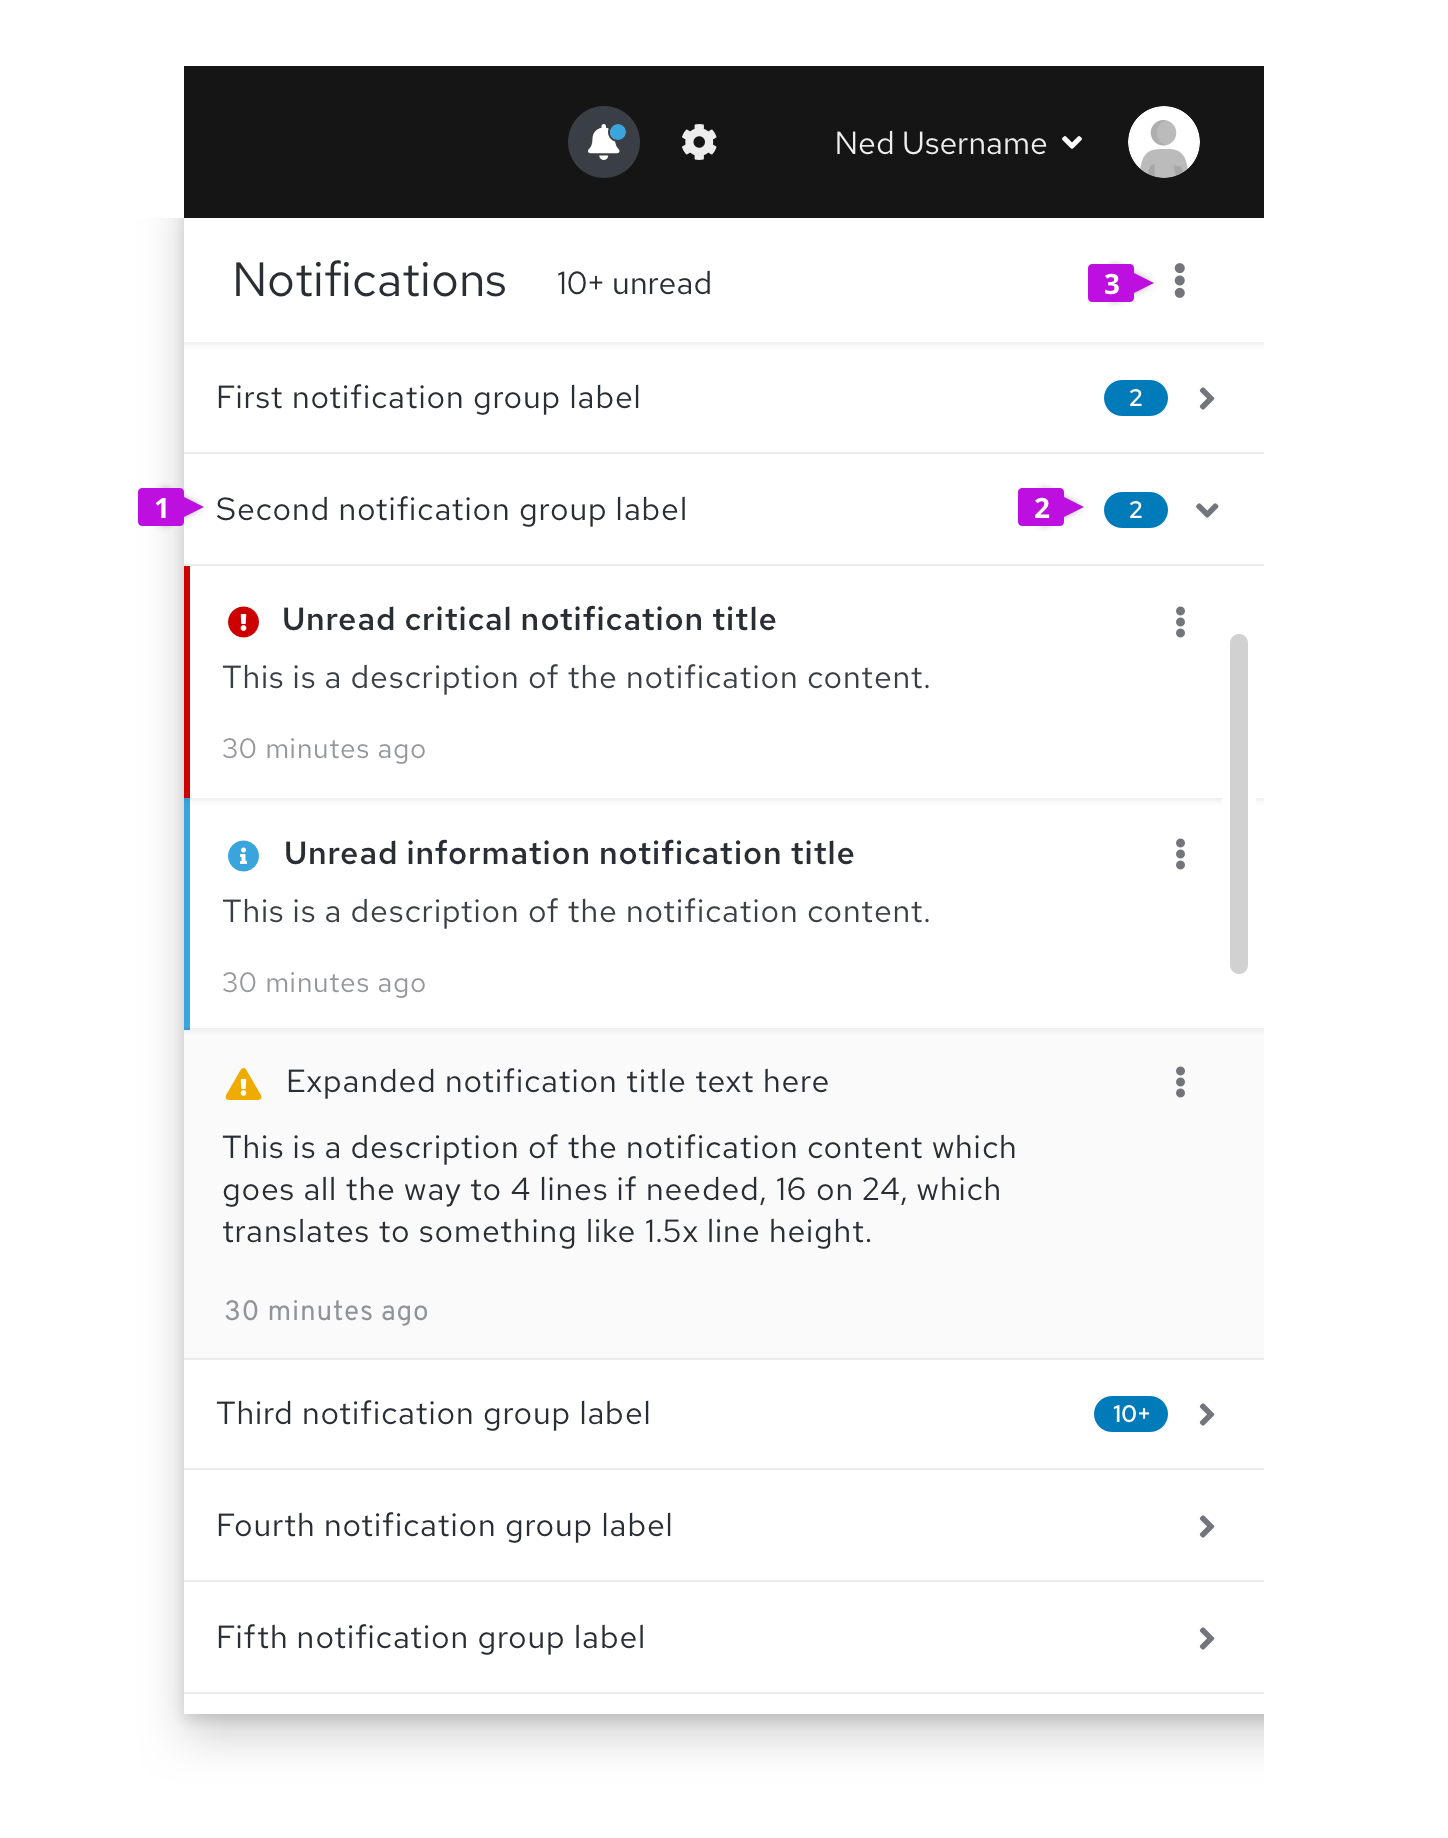
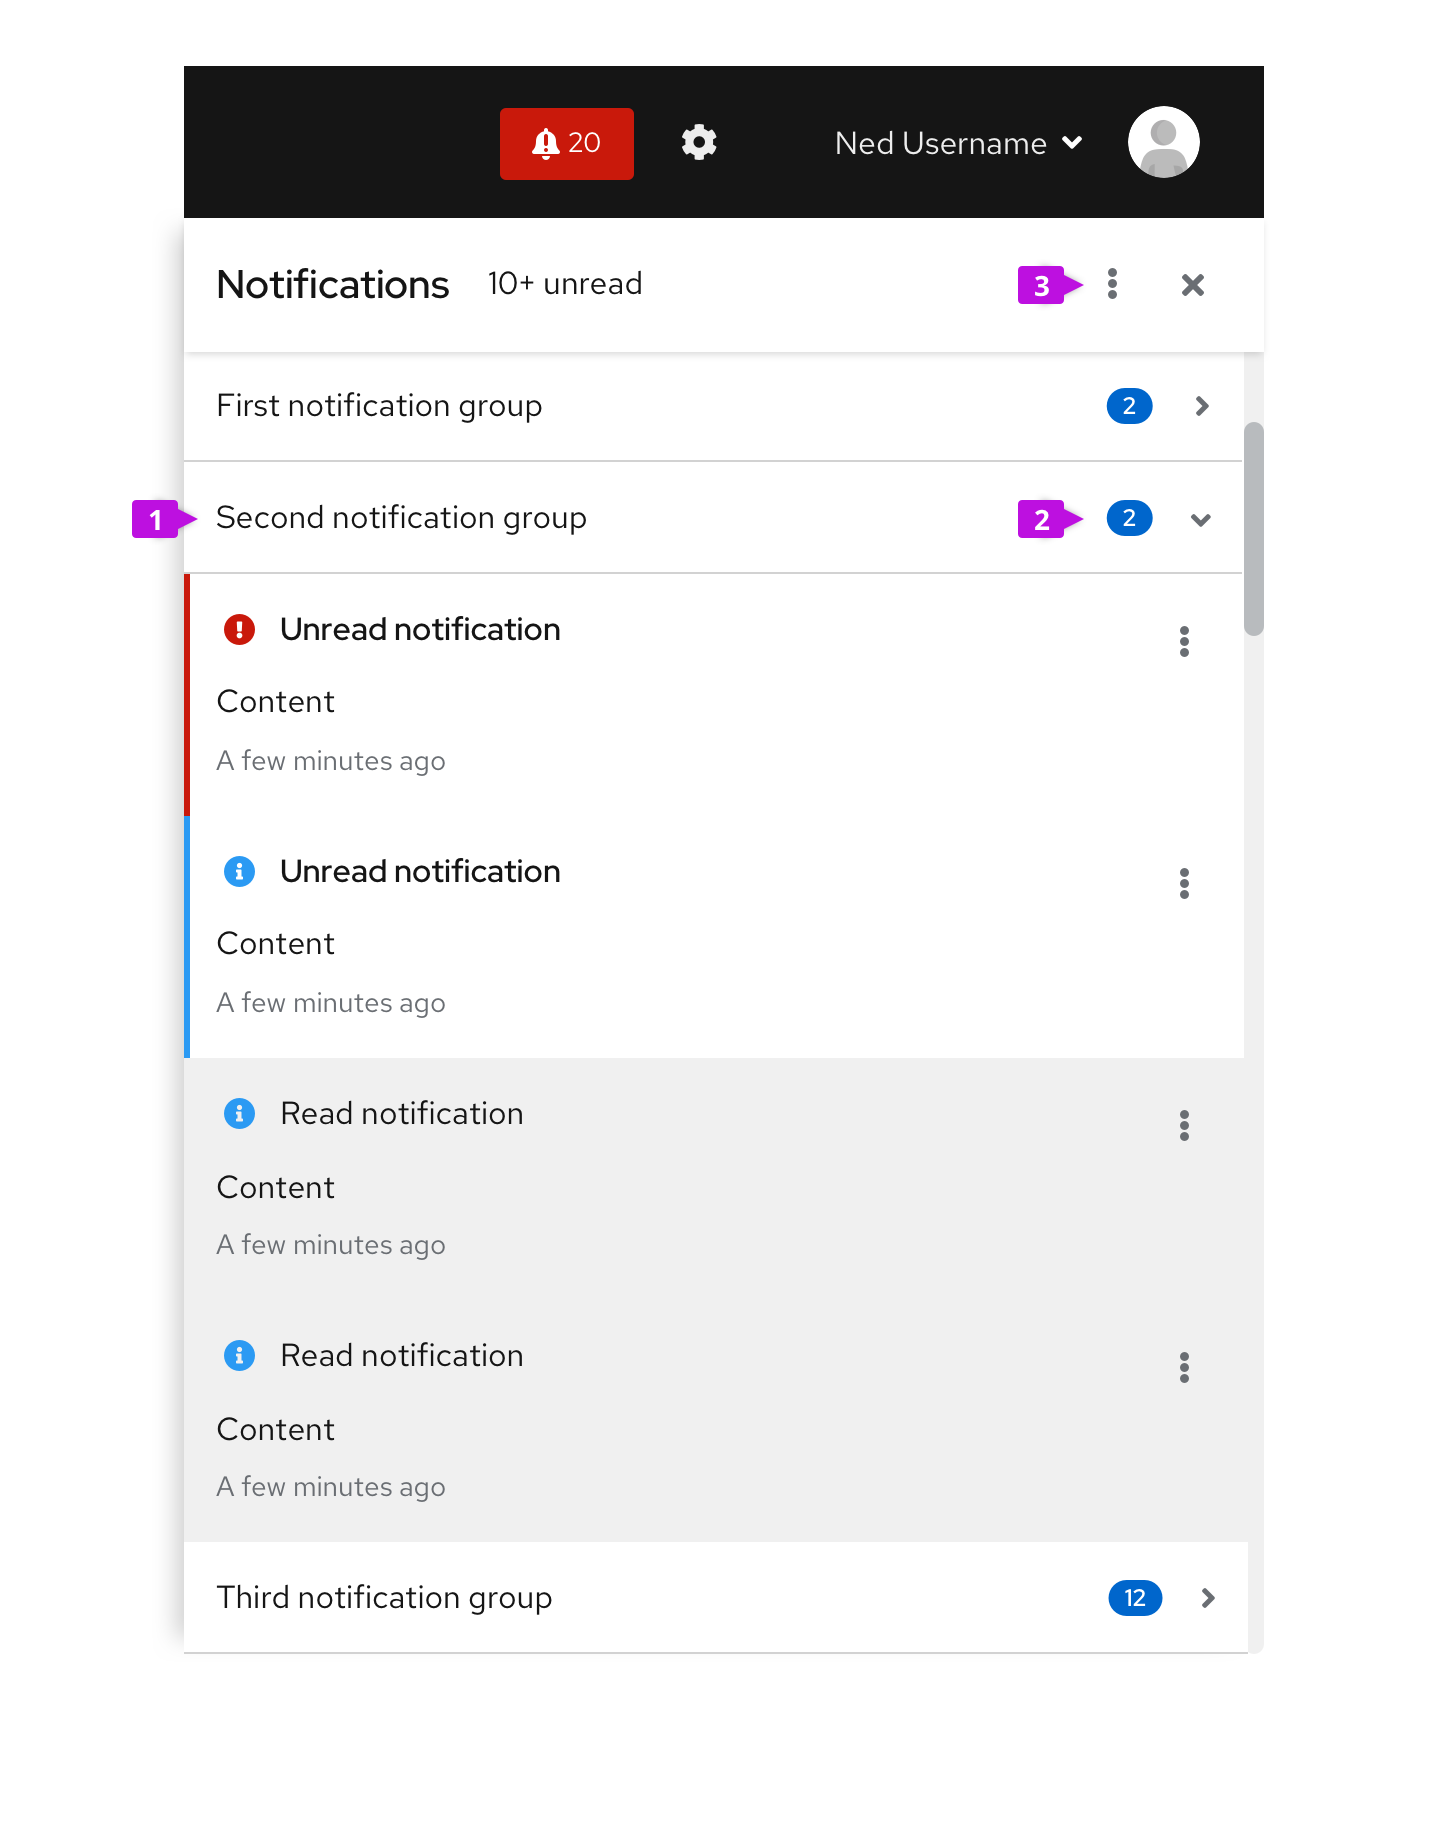
Update notification drawer guidelines for new badge and add notification badge guidelines

diff --git a/packages/v4/src/content/design-guidelines/components/notification-drawer/notification-drawer.md b/packages/v4/src/content/design-guidelines/components/notification-drawer/notification-drawer.md
@@ -4,9 +4,7 @@ section: components
 related: ['Notification drawer', 'Notification badge', 'Drawer']
 ---
 
-The **Notification Drawer** uses the [Drawer component](/documentation/core/components/drawer) to provide a place for viewing and managing incoming notifications.
-
-The notification drawer is a place where users can view and manage asynchronous notifications that are generated by the system. It allows them to see a list of notifications without the need to navigate away from the current screen.
+The Notification drawer is a place where users can view and manage notifications that are generated by the system. It allows them to see a list of notifications without the need to navigate away from the current screen.
 
 ## Notification drawer elements
 
@@ -27,11 +25,13 @@ The notification drawer is a place where users can view and manage asynchronous 
 - **Settings** - open notification settings.
 
 
-**4. Notification:** Each notification has a status icon, message text, and is time stamped. The message text may include embedded links. Unread messages are displayed in bold-faced type. Single clicking a notification (or selecting the Mark as read action from the menu) marks it as read.
+**4. Close button:** Closes the drawer.
 
-**5. Time stamp:** Time stamps can be displayed either in relative or absolute time. Relative time is good for events that are more recent. We recommend that any notification less than an hour old have a relative time stamp, for example 20 seconds ago, 5 minutes ago, etc., and that older events switch to absolute time for better precision, June 20 2019 12:45 PM, for example. The switchover point between relative and absolute time may be tuned to your application.
+**5. Notification:** Each notification has a status icon, message text, and is time stamped. The message text may include embedded links. Unread messages are displayed in bold-faced type. Single clicking a notification (or selecting the Mark as read action from the menu) marks it as read.
 
-**6. Inline actions (optional):** Actions that apply to the current notification, only. Standard actions include **Mark as read** and **Clear**. This menu may be customized as required by the application.
+**6. Time stamp:** Time stamps can be displayed either in relative or absolute time. Relative time is good for events that are more recent. We recommend that any notification less than an hour old have a relative time stamp, for example 20 seconds ago, 5 minutes ago, etc., and that older events switch to absolute time for better precision, June 20 2019 12:45 PM, for example. The switchover point between relative and absolute time may be tuned to your application.
+
+**7. Inline actions (optional):** Actions that apply to the current notification, only. Standard actions include **Mark as read** and **Clear**. This menu may be customized as required by the application.
 
 ### Grouped notification drawer
 If you want to sort notifications by category, collapsible headers may be used to group content. The grouped notification drawer utilizes an accordion pattern where only one category will be opened at a time. By default, the first category will be opened, although if the drawer is closed and reopened, the prior state should persist.
@@ -55,7 +55,7 @@ If you want to sort notifications by category, collapsible headers may be used t
 
 <img src="./img/Notification-drawer-in-page.png" alt="notification drawer placement" width="825"/>
 
-**1. Notification badge:** The blue dot indicates to users that there are unread notifications in the drawer. Clicking on the icon will toggle the drawer open or closed.
+**1. Notification badge:** Whenever the notification drawer is used, a [Notification badge](/components/notification-badge) must be placed in the masthead. Clicking on the badge will toggle the drawer open or closed. Depending on options supported in the application, the badge can also be used to display the number of notifications in the drawer and whether there are unread or critical notifications needing attention. See the [Notification badge](components/notification-badge) usage guidelines for more information about these options.
 
 **2. Drawer:** The notification drawer lives in slide-out panel that overlays page content and is anchored to the right-hand edge of the viewport.
 
@@ -78,11 +78,11 @@ The notification drawer provides a flexible container where users can view and m
 
 When the notification drawer is being used, notifications will undergo the following life-cycle:
 
-1. New notifications should be added to the drawer according to policies established by the application. The Notification badge will be set to reflect that new/unread notifications have been added to the drawer.
+1. New notifications should be added to the drawer according to policies established by the application. If the application can track new/unread notifications, then Notification badge will be set to reflect that new/unread notifications have been added to the drawer.
 
 2. Notifications are always listed in reverse chronological order - newest to oldest.
 
-3. Notifications are considered unread until a user takes action to mark them as read.
+3. If supported, notifications are considered unread until a user takes action to mark them as read.
 
 4. Notifications will remain in the drawer until either the user takes an action to clear them or they expire based on policies established by the application.
 

diff --git a/packages/v4/src/content/design-guidelines/components/notification-badge/notification-badge.md b/packages/v4/src/content/design-guidelines/components/notification-badge/notification-badge.md
@@ -1,5 +1,25 @@
 ---
 id: Notification badge
 section: components
+related: ['Notification drawer', 'Page']
 ---
-Use a **Notification badge** when you want to apply a small badge to an icon. This is primarily used to indicate incoming notifications in the page header, but it can be useful for any use case where adding a badge to an icon is needed.
+The **Notification badge** is intended to be used with a [Notification drawer](/components/notification-drawer) as a visible indicator to alert the user about incoming notifications.
+
+## Notification badge elements
+
+<img src="./img/notification-badge.png" alt="basic notification drawer" width="598"/>
+
+**1. Icon:** the notification badge will be located in the masthead and display the 'fa-bell' icon in it's default state. Clicking the icon (or anywhere within the badge) will toggle the notification drawer open and closed.
+**2. Background:** In the default state, the background will change color to indicate that the notification drawer is opened. Optionally the background color can also convey status.
+**3. Unread status (optional):** Setting the background color to blue will indicate that one or more unread notifications are present in the drawer.
+**4. Attention status (optional):** Setting the background color to red will indicate that one or more notifications are present in the drawer that require immediate attention. In the attention state the icon also changes from 'fa-bell' to 'pf-icon-attention-bell'.
+**5. Count (optional):** When used, the count field will indicate the number of notifications in the notification drawer.
+
+## Usage
+A notification badge must always be used when the notification drawer is present. Dependent on the capabilities and needs of your application, best practices for using the badge are as follows:
+
+* Report the Unread state in the badge only when it's possible to mark notifications as read in the drawer and when arriving notifications are relatively infrequent. If unread notifications will be present most of the time, alerting the user in this way looses its effect and is potentially distracting.
+
+* Reporting a count of notifications is useful in most cases to give the user an indication of the volume of notifications present. This is especially helpful if unread status is not reported as it gives some indication of new arrivals.
+
+* The Attention state will typically be used to report critical errors, i.e. notifications with a severity set to 'error'. Again, this should only be used when such conditions are infrequent and truly indicate that immediate attention is required.
